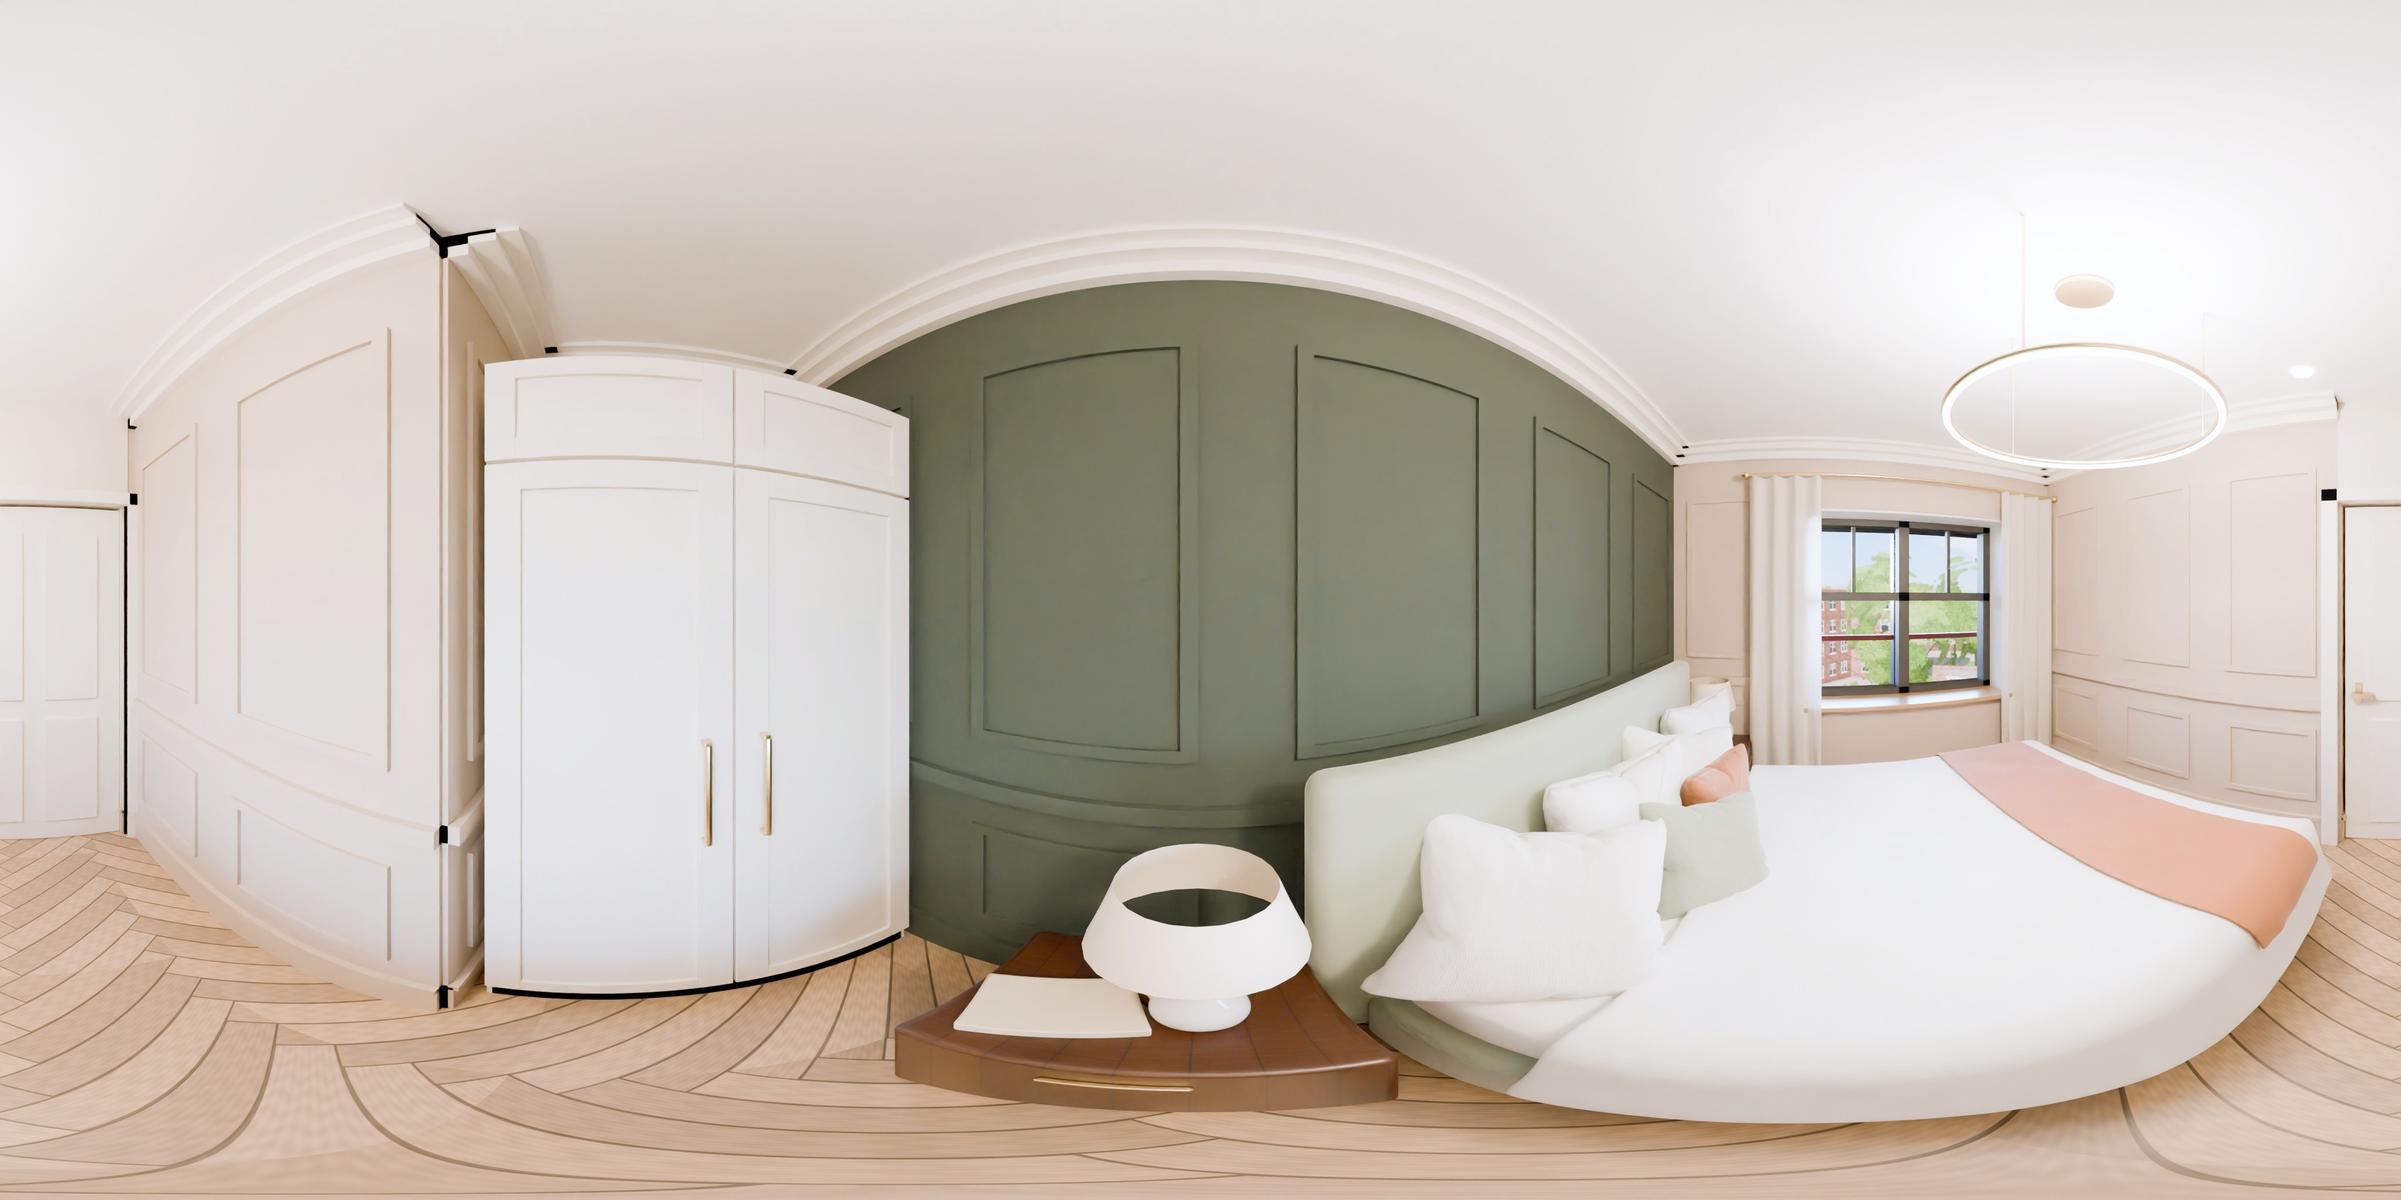
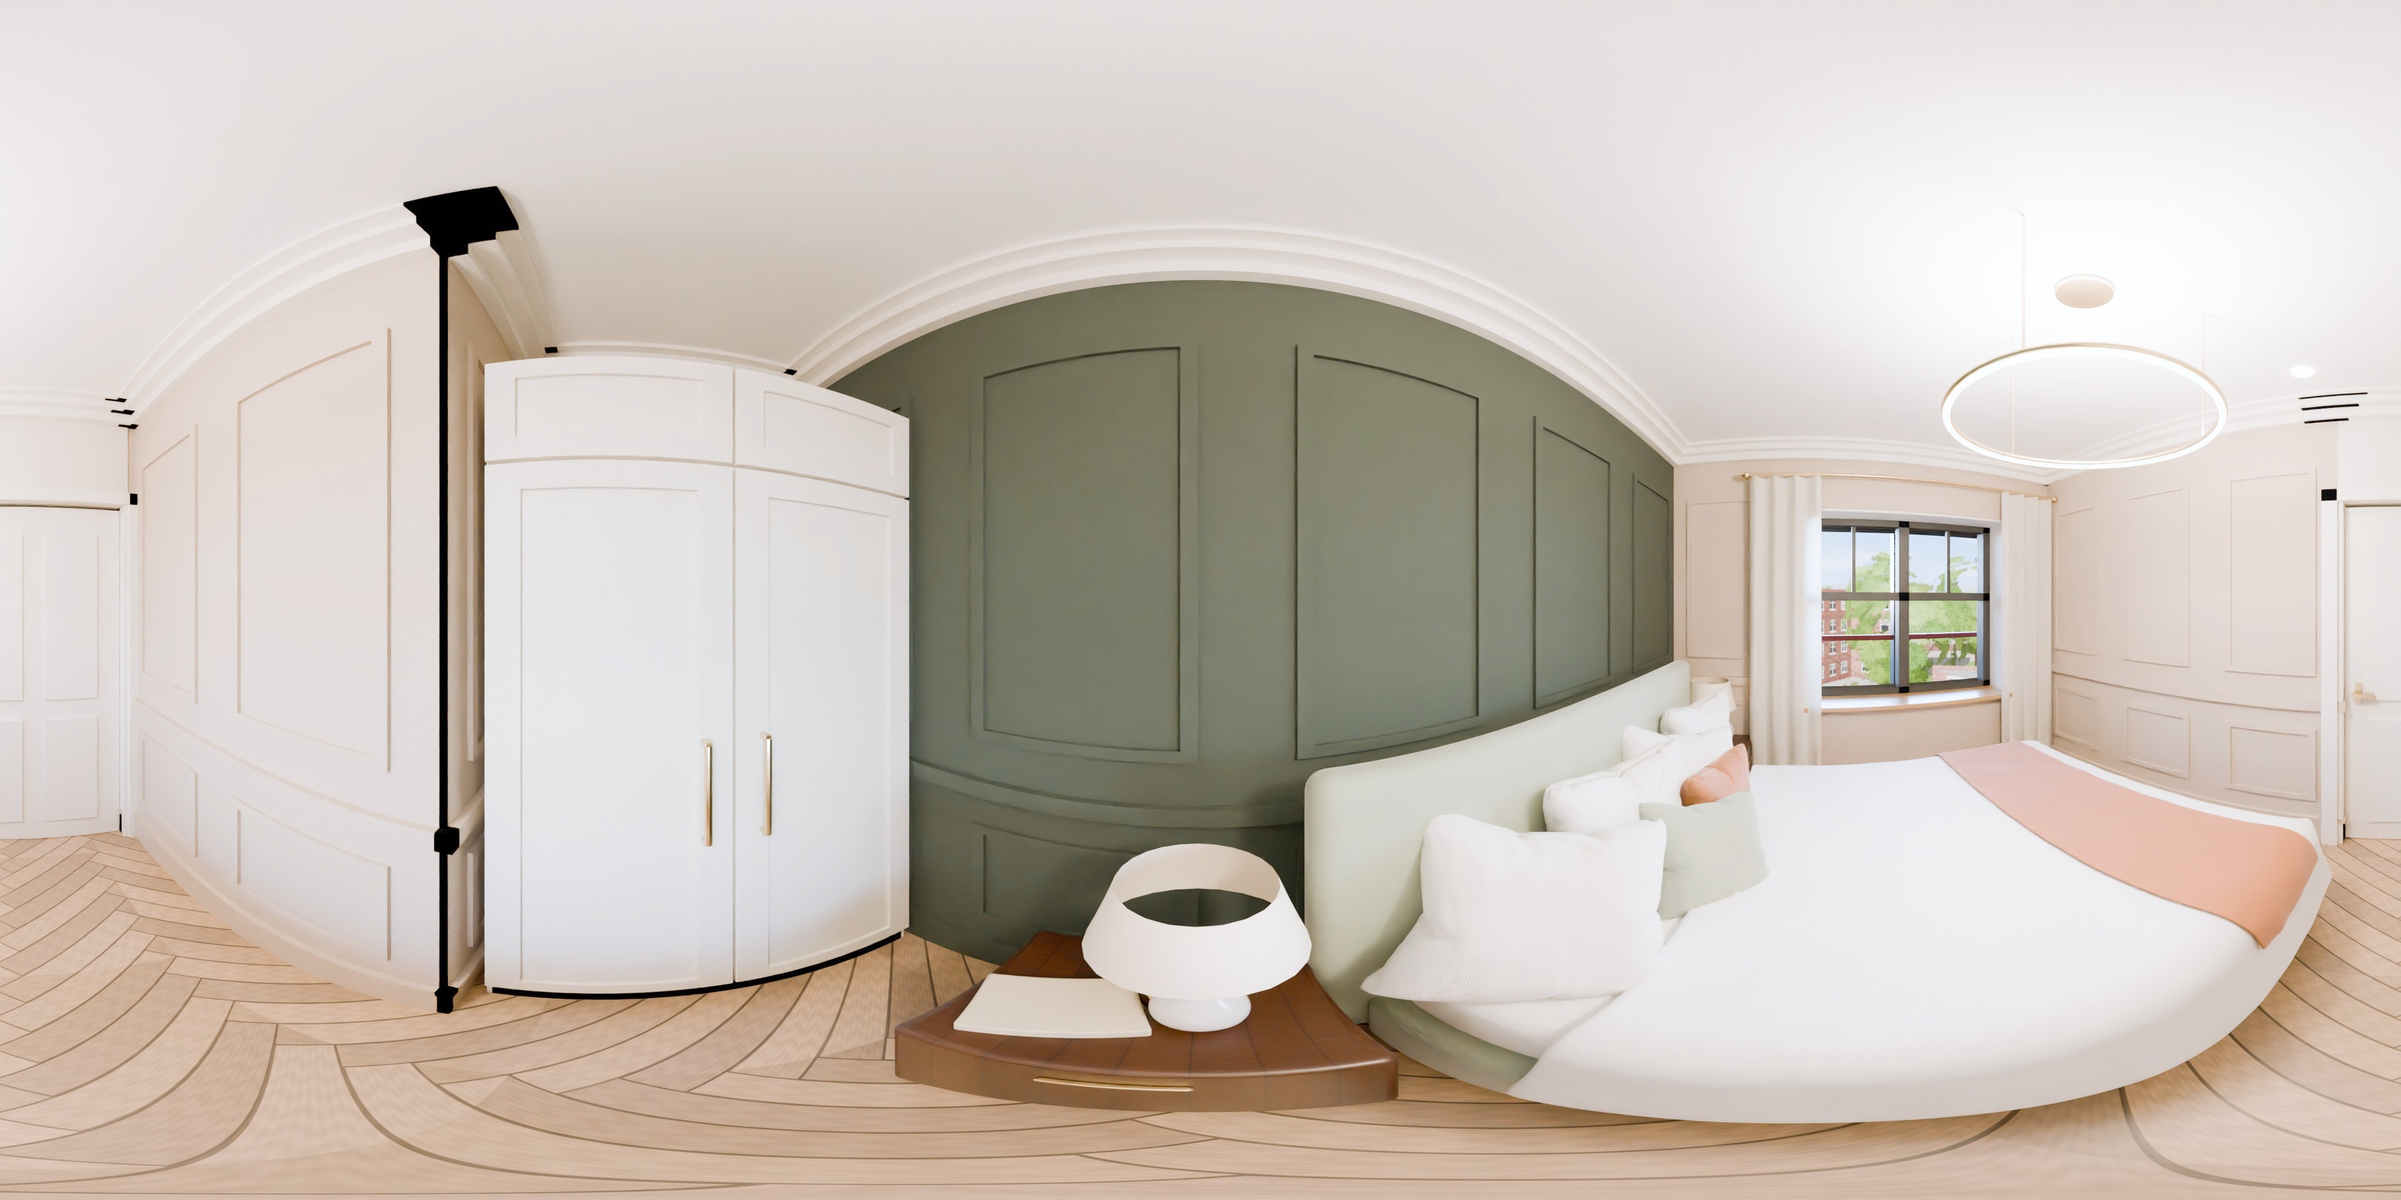
Photoreal 360 26_1: doors, extractor, no LED strip or blinds, brighter
Claude-Session: https://claude.ai/code/session_01Sctq4w295HK7FSoKn8ZRoL

diff --git a/3d/js/main.js b/3d/js/main.js
@@ -9,30 +9,30 @@ import { ShaderPass } from 'three/addons/postprocessing/ShaderPass.js';
 import { GTAOPass } from 'three/addons/postprocessing/GTAOPass.js';
 import { Sky } from 'three/addons/objects/Sky.js';
 import { mergeGeometries } from 'three/addons/utils/BufferGeometryUtils.js';
-import { UNITS, FLOORS, STATUS, SITE, INTERIORS, SUN, fmtGBP, sqm, FLOOR_H, IS_PH, START_AREA, IS_OSL, IS_UBL, PLANF } from './site.js?v=1794009794';
-import { buildUBL } from './ublbuild.js?v=1794009794';
-import { buildUBLFitout } from './ublfit.js?v=1794009794';
-import { UBL_LEVELS } from './ubl_data.js?v=1794009794';
-import { buildPrintHouse, buildSeatonSign, buildSeatonHouse } from './printhouse.js?v=1794009794';
-import { buildOSL } from './oslbuild.js?v=1794009794';
-import { buildOSLFitout } from './oslfit.js?v=1794009794';
-import { makeMaterials, CUT, setAniso, tex } from './materials.js?v=1794009794';
-import { buildCharterHouse, buildFloorPlates } from './building.js?v=1794009794';
-import { buildContext, buildCourtyard, groundY, buildBreweryFront, buildCars } from './context.js?v=1794009794';
-import { setTerrain, setMid, buildWorld, obb, groundAt, townUniforms, setGroundHole, insetPoly } from './world.js?v=1794009794';
-import { buildFar, hazeUniforms } from './far.js?v=1794009794';
-import { buildRailway } from './railway.js?v=1794009794';
-import { buildExchange, EXCHANGE_IDS } from './exchange.js?v=1794009794';
+import { UNITS, FLOORS, STATUS, SITE, INTERIORS, SUN, fmtGBP, sqm, FLOOR_H, IS_PH, START_AREA, IS_OSL, IS_UBL, PLANF } from './site.js?v=1794012442';
+import { buildUBL } from './ublbuild.js?v=1794012442';
+import { buildUBLFitout } from './ublfit.js?v=1794012442';
+import { UBL_LEVELS } from './ubl_data.js?v=1794012442';
+import { buildPrintHouse, buildSeatonSign, buildSeatonHouse } from './printhouse.js?v=1794012442';
+import { buildOSL } from './oslbuild.js?v=1794012442';
+import { buildOSLFitout } from './oslfit.js?v=1794012442';
+import { makeMaterials, CUT, setAniso, tex } from './materials.js?v=1794012442';
+import { buildCharterHouse, buildFloorPlates } from './building.js?v=1794012442';
+import { buildContext, buildCourtyard, groundY, buildBreweryFront, buildCars } from './context.js?v=1794012442';
+import { setTerrain, setMid, buildWorld, obb, groundAt, townUniforms, setGroundHole, insetPoly } from './world.js?v=1794012442';
+import { buildFar, hazeUniforms } from './far.js?v=1794012442';
+import { buildRailway } from './railway.js?v=1794012442';
+import { buildExchange, EXCHANGE_IDS } from './exchange.js?v=1794012442';
 const TOUR_WORLD = new URLSearchParams(location.search).get('world') === 'tour';   // the wide world for the Stockport tour renders
-import { Forest, windUniforms } from './trees.js?v=1794009794';
-import { Interior } from './interior.js?v=1794009794';
-import { buildFurniture, LAYOUTS, furnitureMaterials } from './furniture.js?v=1794009794';
-import { buildPHFitout } from './phfit.js?v=1794009794';
-import { walkMaterials, buildApartment, Walker } from './walk.js?v=1794009794';
-import { landmarkMaterials, buildStMarys, buildMarketHallOSM, buildStJoseph } from './landmarks.js?v=1794009794';
-import { createTour } from './tour.js?v=1794009794';
-import { buildCrowd } from './crowd.js?v=1794009794';
-import { pitch as chPitch, phPitch, PICKS as CH_PICKS, PH_PICKS, PROOF, RESERVE, CHARLIE, AREA_CARDS as ALL_CARDS, REGEN, AREA_HEADLINE, rentFor, oslPitch, OSL_PICKS, OSL_PROOF, ublPitch, UBL_PICKS, UBL_PROOF } from './sales.js?v=1794009794';
+import { Forest, windUniforms } from './trees.js?v=1794012442';
+import { Interior } from './interior.js?v=1794012442';
+import { buildFurniture, LAYOUTS, furnitureMaterials } from './furniture.js?v=1794012442';
+import { buildPHFitout } from './phfit.js?v=1794012442';
+import { walkMaterials, buildApartment, Walker } from './walk.js?v=1794012442';
+import { landmarkMaterials, buildStMarys, buildMarketHallOSM, buildStJoseph } from './landmarks.js?v=1794012442';
+import { createTour } from './tour.js?v=1794012442';
+import { buildCrowd } from './crowd.js?v=1794012442';
+import { pitch as chPitch, phPitch, PICKS as CH_PICKS, PH_PICKS, PROOF, RESERVE, CHARLIE, AREA_CARDS as ALL_CARDS, REGEN, AREA_HEADLINE, rentFor, oslPitch, OSL_PICKS, OSL_PROOF, ublPitch, UBL_PICKS, UBL_PROOF } from './sales.js?v=1794012442';
 const pitch = IS_UBL ? ublPitch : IS_OSL ? oslPitch : IS_PH ? phPitch : chPitch, PICKS = IS_UBL ? UBL_PICKS : IS_OSL ? OSL_PICKS : IS_PH ? PH_PICKS : CH_PICKS;
 const RK = IS_UBL ? 'ubl' : IS_OSL ? 'osl' : IS_PH;   // which site's rents
 const PROOFS = IS_UBL ? UBL_PROOF : IS_OSL ? OSL_PROOF : PROOF;
@@ -2047,8 +2047,8 @@ function buildSpots() {
   }
   // photoreal path-traced 360s of the rooms (rendered offline from this model; listed in assets/pano/index.json)
   for (const p of PANO_INDEX) {
-    if (p.spot) { const sp = SPOTS.find((q) => q.id === p.spot); if (sp) { sp.pano = `pano/${p.file}.jpg?v=1794009794`; sp.hd = !!p.hd; sp.glide = false; sp.note = sp.note + ' Photoreal 360°: drag to look round.'; } continue; }   // a street spot with its own photoreal 360
-    SPOTS.push({ id: 'pano-' + p.file, name: p.name, at: V3(...p.pos), look: V3(...p.look), pano: `pano/${p.file}.jpg?v=1794009794`, hd: !!p.hd, glide: false, type: p.type, plot: p.plot, room: p.room || p.name, note: p.note || 'Photoreal 360°. Drag to look round.' });
+    if (p.spot) { const sp = SPOTS.find((q) => q.id === p.spot); if (sp) { sp.pano = `pano/${p.file}.jpg?v=1794012442`; sp.hd = !!p.hd; sp.glide = false; sp.note = sp.note + ' Photoreal 360°: drag to look round.'; } continue; }   // a street spot with its own photoreal 360
+    SPOTS.push({ id: 'pano-' + p.file, name: p.name, at: V3(...p.pos), look: V3(...p.look), pano: `pano/${p.file}.jpg?v=1794012442`, hd: !!p.hd, glide: false, type: p.type, plot: p.plot, room: p.room || p.name, note: p.note || 'Photoreal 360°. Drag to look round.' });
   }
   const LINKS = {"wellington": [], "garden": ["garden2", "walk1", "walktop"], "garden2": ["garden", "walk1"], "walk1": ["garden", "walktop"], "walktop": ["garden", "walk1"], "stjoseph": ["fletcher"], "fletcher": ["stjoseph"], "roof": [], "corner": ["park", "arch", "harvey", "smg"], "park": ["corner", "arch"], "arch": ["corner", "park"], "harvey": ["smg", "corner"], "smg": ["harvey", "corner"], "courtyard": ["walkway"], "walkway": ["courtyard"], "church": [], "market": []};   // the spots you can actually see from each spot (pins never show through walls)
   for (const sp of SPOTS) sp.links = LINKS[sp.id] || [];
@@ -2367,7 +2367,7 @@ function loop() {
   try {
     await build();
     placeLandmarks();
-    try { const j = await fetch(BASE + 'pano/index.json?v=1794009794').then(r => r.ok ? r.json() : []); PANO_INDEX = (j || []).filter(p => !!p.type === true && (IS_UBL ? p.site === 'ubl' : IS_OSL ? p.site === 'osl' : IS_PH ? p.site === 'ph' : p.site !== 'ph' && p.site !== 'osl' && p.site !== 'ubl')); } catch (e) { PANO_INDEX = []; }
+    try { const j = await fetch(BASE + 'pano/index.json?v=1794012442').then(r => r.ok ? r.json() : []); PANO_INDEX = (j || []).filter(p => !!p.type === true && (IS_UBL ? p.site === 'ubl' : IS_OSL ? p.site === 'osl' : IS_PH ? p.site === 'ph' : p.site !== 'ph' && p.site !== 'osl' && p.site !== 'ubl')); } catch (e) { PANO_INDEX = []; }
     buildSpots();
   } catch (e) { console.error(e); lmsg.textContent = 'Something went wrong loading the model. Please refresh.'; return; }
   applyTOD('day');

diff --git a/3d/js/site.js b/3d/js/site.js
@@ -1,9 +1,9 @@
 // Which development this page sells: Charter House (default) or The Print House (window.__SITE = 'ph' or ?site=ph).
 // Everything the selector shows (units, floors, prices, copy) comes through here, so one engine serves both.
-import * as CHD from './data.js?v=1794009794';
-import { PH_SITE, PH_FLOORS, PH_UNITS, PH_FH } from './ph_data.js?v=1794009794';
-import { OSL_SITE, OSL_FLOORS, OSL_UNITS, OSL_FH } from './osl_data.js?v=1794009794';
-import { UBL_SITE, UBL_FLOORS, UBL_UNITS, UBL_FH } from './ubl_data.js?v=1794009794';
+import * as CHD from './data.js?v=1794012442';
+import { PH_SITE, PH_FLOORS, PH_UNITS, PH_FH } from './ph_data.js?v=1794012442';
+import { OSL_SITE, OSL_FLOORS, OSL_UNITS, OSL_FH } from './osl_data.js?v=1794012442';
+import { UBL_SITE, UBL_FLOORS, UBL_UNITS, UBL_FH } from './ubl_data.js?v=1794012442';
 
 export const IS_PH = typeof window !== 'undefined' && (window.__SITE === 'ph' || /[?&]site=ph\b/.test(location.search));
 // Oldham Street Lofts, Hyde (window.__SITE = 'osl' or ?site=osl): a different town, built in the same plan-frame way as The Print House

diff --git a/3d/js/phfit.js b/3d/js/phfit.js
@@ -4,10 +4,10 @@
 // Built in the Print House model's plan frame (x = u, z = -v), so the group sits inside the model's transform.
 import * as THREE from 'three';
 import { mergeGeometries } from 'three/addons/utils/BufferGeometryUtils.js';
-import { CUT } from './materials.js?v=1794009794';
-import { plankTexture, weaveTexture, tileTexture, finishUV } from './finishes.js?v=1794009794';
-import { Kit, sofa, armchair, bed, bedside, wardrobe, kitchen, chair, diningTable, coffeeTable, rug, pot } from './furniture.js?v=1794009794';
-import { phTopY } from './ph_data.js?v=1794009794';
+import { CUT } from './materials.js?v=1794012442';
+import { plankTexture, weaveTexture, tileTexture, finishUV } from './finishes.js?v=1794012442';
+import { Kit, sofa, armchair, bed, bedside, wardrobe, kitchen, chair, diningTable, coffeeTable, rug, pot } from './furniture.js?v=1794012442';
+import { phTopY } from './ph_data.js?v=1794012442';
 
 // which side of each main-block slot its kitchen runs along (kitchens pair back to back across the party walls)
 const KSIDE = { 2: 0, 3: 1, 4: 0, 5: 1, 6: 0, 7: 1 };

diff --git a/3d/js/oslfit.js b/3d/js/oslfit.js
@@ -3,10 +3,10 @@
 // Built in the sheet frame (local x = s along Syddall Street, z = t back from the frontage), inside the model's transform.
 import * as THREE from 'three';
 import { mergeGeometries } from 'three/addons/utils/BufferGeometryUtils.js';
-import { CUT } from './materials.js?v=1794009794';
-import { plankTexture, weaveTexture, tileTexture, finishUV } from './finishes.js?v=1794009794';
-import { Kit, sofa, armchair, bed, bedside, kitchen, chair, diningTable, coffeeTable, rug } from './furniture.js?v=1794009794';
-import { OSL_KEAST } from './osl_data.js?v=1794009794';
+import { CUT } from './materials.js?v=1794012442';
+import { plankTexture, weaveTexture, tileTexture, finishUV } from './finishes.js?v=1794012442';
+import { Kit, sofa, armchair, bed, bedside, kitchen, chair, diningTable, coffeeTable, rug } from './furniture.js?v=1794012442';
+import { OSL_KEAST } from './osl_data.js?v=1794012442';
 
 let MATS = null;
 function mats() {

diff --git a/3d/js/ublfit.js b/3d/js/ublfit.js
@@ -7,10 +7,10 @@
 import * as THREE from 'three';
 import { mergeGeometries } from 'three/addons/utils/BufferGeometryUtils.js';
 import { RoundedBoxGeometry } from 'three/addons/geometries/RoundedBoxGeometry.js';
-import { CUT } from './materials.js?v=1794009794';
-import { Kit, bed, bedside, chair, rug, coffeeTable } from './furniture.js?v=1794009794';
-import { UBL_LEVELS } from './ubl_data.js?v=1794009794';
-import { plankTexture, weaveTexture, tileTexture, stoneTexture, rugTexture, finishUV } from './finishes.js?v=1794009794';
+import { CUT } from './materials.js?v=1794012442';
+import { Kit, bed, bedside, chair, rug, coffeeTable } from './furniture.js?v=1794012442';
+import { UBL_LEVELS } from './ubl_data.js?v=1794012442';
+import { plankTexture, weaveTexture, tileTexture, stoneTexture, rugTexture, finishUV } from './finishes.js?v=1794012442';
 
 let MATS = null;
 function mats() {

diff --git a/3d/js/ublbuild.js b/3d/js/ublbuild.js
@@ -9,10 +9,10 @@
 // Heights in metres above the converted building's lower ground floor (+52.00 m AOD).
 import * as THREE from 'three';
 import { mergeGeometries } from 'three/addons/utils/BufferGeometryUtils.js';
-import { UBL_SITE, UBL_UNITS, UBL_LEVELS, UBL_EXT_LEVELS } from './ubl_data.js?v=1794009794';
-import { roomBox } from './building.js?v=1794009794';
-import { roomMaterial } from './materials.js?v=1794009794';
-import { insetPoly } from './world.js?v=1794009794';
+import { UBL_SITE, UBL_UNITS, UBL_LEVELS, UBL_EXT_LEVELS } from './ubl_data.js?v=1794012442';
+import { roomBox } from './building.js?v=1794012442';
+import { roomMaterial } from './materials.js?v=1794012442';
+import { insetPoly } from './world.js?v=1794012442';
 
 const NF = 5;
 const EAVES = 15.4, RIDGE = 18.4;                     // +67.40 / +70.40

diff --git a/3d/js/oslbuild.js b/3d/js/oslbuild.js
@@ -7,10 +7,10 @@
 // which is the engine's plan frame with u = s, v = -t.
 import * as THREE from 'three';
 import { mergeGeometries } from 'three/addons/utils/BufferGeometryUtils.js';
-import { OSL_SITE, OSL_FH, OSL_UNITS, OSL_KEAST } from './osl_data.js?v=1794009794';
-import { roomBox } from './building.js?v=1794009794';
-import { roomMaterial } from './materials.js?v=1794009794';
-import { insetPoly, polyArea } from './world.js?v=1794009794';
+import { OSL_SITE, OSL_FH, OSL_UNITS, OSL_KEAST } from './osl_data.js?v=1794012442';
+import { roomBox } from './building.js?v=1794012442';
+import { roomMaterial } from './materials.js?v=1794012442';
+import { insetPoly, polyArea } from './world.js?v=1794012442';
 
 const FH = OSL_FH, NF = 3;
 const HW = 4.137, HD = 11.17;                   // house plot width and depth

diff --git a/3d/js/printhouse.js b/3d/js/printhouse.js
@@ -5,9 +5,9 @@
 // local z = -v (v runs east into the garden), so the plan coordinates read straight across.
 import * as THREE from 'three';
 import { mergeGeometries } from 'three/addons/utils/BufferGeometryUtils.js';
-import { PH_SITE, PH_FH, PH_UNITS, PH_ROOF, phTopY } from './ph_data.js?v=1794009794';
-import { roomBox } from './building.js?v=1794009794';
-import { roomMaterial } from './materials.js?v=1794009794';
+import { PH_SITE, PH_FH, PH_UNITS, PH_ROOF, phTopY } from './ph_data.js?v=1794012442';
+import { roomBox } from './building.js?v=1794012442';
+import { roomMaterial } from './materials.js?v=1794012442';
 
 const FH = PH_FH, NF = 5;
 const MAIN = [0, 0, 27.2, 10.2];      // u0 v0 u1 v1

diff --git a/3d/js/context.js b/3d/js/context.js
@@ -4,8 +4,8 @@
 import * as THREE from 'three';
 import { mergeGeometries, mergeVertices } from 'three/addons/utils/BufferGeometryUtils.js';
 import { RoundedBoxGeometry } from 'three/addons/geometries/RoundedBoxGeometry.js';
-import { boxGeom, boxUV } from './building.js?v=1794009794';
-import { groundAt, letteringTexture } from './world.js?v=1794009794';
+import { boxGeom, boxUV } from './building.js?v=1794012442';
+import { groundAt, letteringTexture } from './world.js?v=1794012442';
 
 // street level comes from the terrain model (world.js): estimated levels relative to Charter House's ground floor
 export function groundY(x, z) { return groundAt(x, z); }

diff --git a/3d/js/far.js b/3d/js/far.js
@@ -3,7 +3,7 @@
 // the Manchester skyline, St George's spire, the 1840 viaduct and the oval Interchange with its rooftop park.
 import * as THREE from 'three';
 import { mergeGeometries, mergeVertices } from 'three/addons/utils/BufferGeometryUtils.js';
-import { midH, groundAt } from './world.js?v=1794009794';
+import { midH, groundAt } from './world.js?v=1794012442';
 
 // aerial perspective shared by every far mesh (they skip the scene fog): haze rises with distance like real air
 export const hazeUniforms = { uHaze: { value: new THREE.Color('#b9c9dc') }, uHazeL: { value: 14000 }, uSunTint: { value: new THREE.Color('#ffffff') } };

diff --git a/3d/js/furniture.js b/3d/js/furniture.js
@@ -5,9 +5,9 @@
 import * as THREE from 'three';
 import { RoundedBoxGeometry } from 'three/addons/geometries/RoundedBoxGeometry.js';
 import { mergeGeometries } from 'three/addons/utils/BufferGeometryUtils.js';
-import { CUT, tex } from './materials.js?v=1794009794';
-import { FLOOR_H } from './data.js?v=1794009794';
-import { Forest } from './trees.js?v=1794009794';
+import { CUT, tex } from './materials.js?v=1794012442';
+import { FLOOR_H } from './data.js?v=1794012442';
+import { Forest } from './trees.js?v=1794012442';
 
 const FH = FLOOR_H;
 const DIR = { '+x': [1, 0], '-x': [-1, 0], '+z': [0, 1], '-z': [0, -1] };

diff --git a/3d/js/building.js b/3d/js/building.js
@@ -1,8 +1,8 @@
 // Charter House: procedural model built from the Ollier Smurthwaite plans and elevations.
 import * as THREE from 'three';
 import { mergeGeometries } from 'three/addons/utils/BufferGeometryUtils.js';
-import { UNITS, FLOOR_H } from './data.js?v=1794009794';
-import { roomMaterial, CUT_PLANES } from './materials.js?v=1794009794';
+import { UNITS, FLOOR_H } from './data.js?v=1794012442';
+import { roomMaterial, CUT_PLANES } from './materials.js?v=1794012442';
 
 const FH = FLOOR_H;
 const T = 0.4;              // external wall thickness
